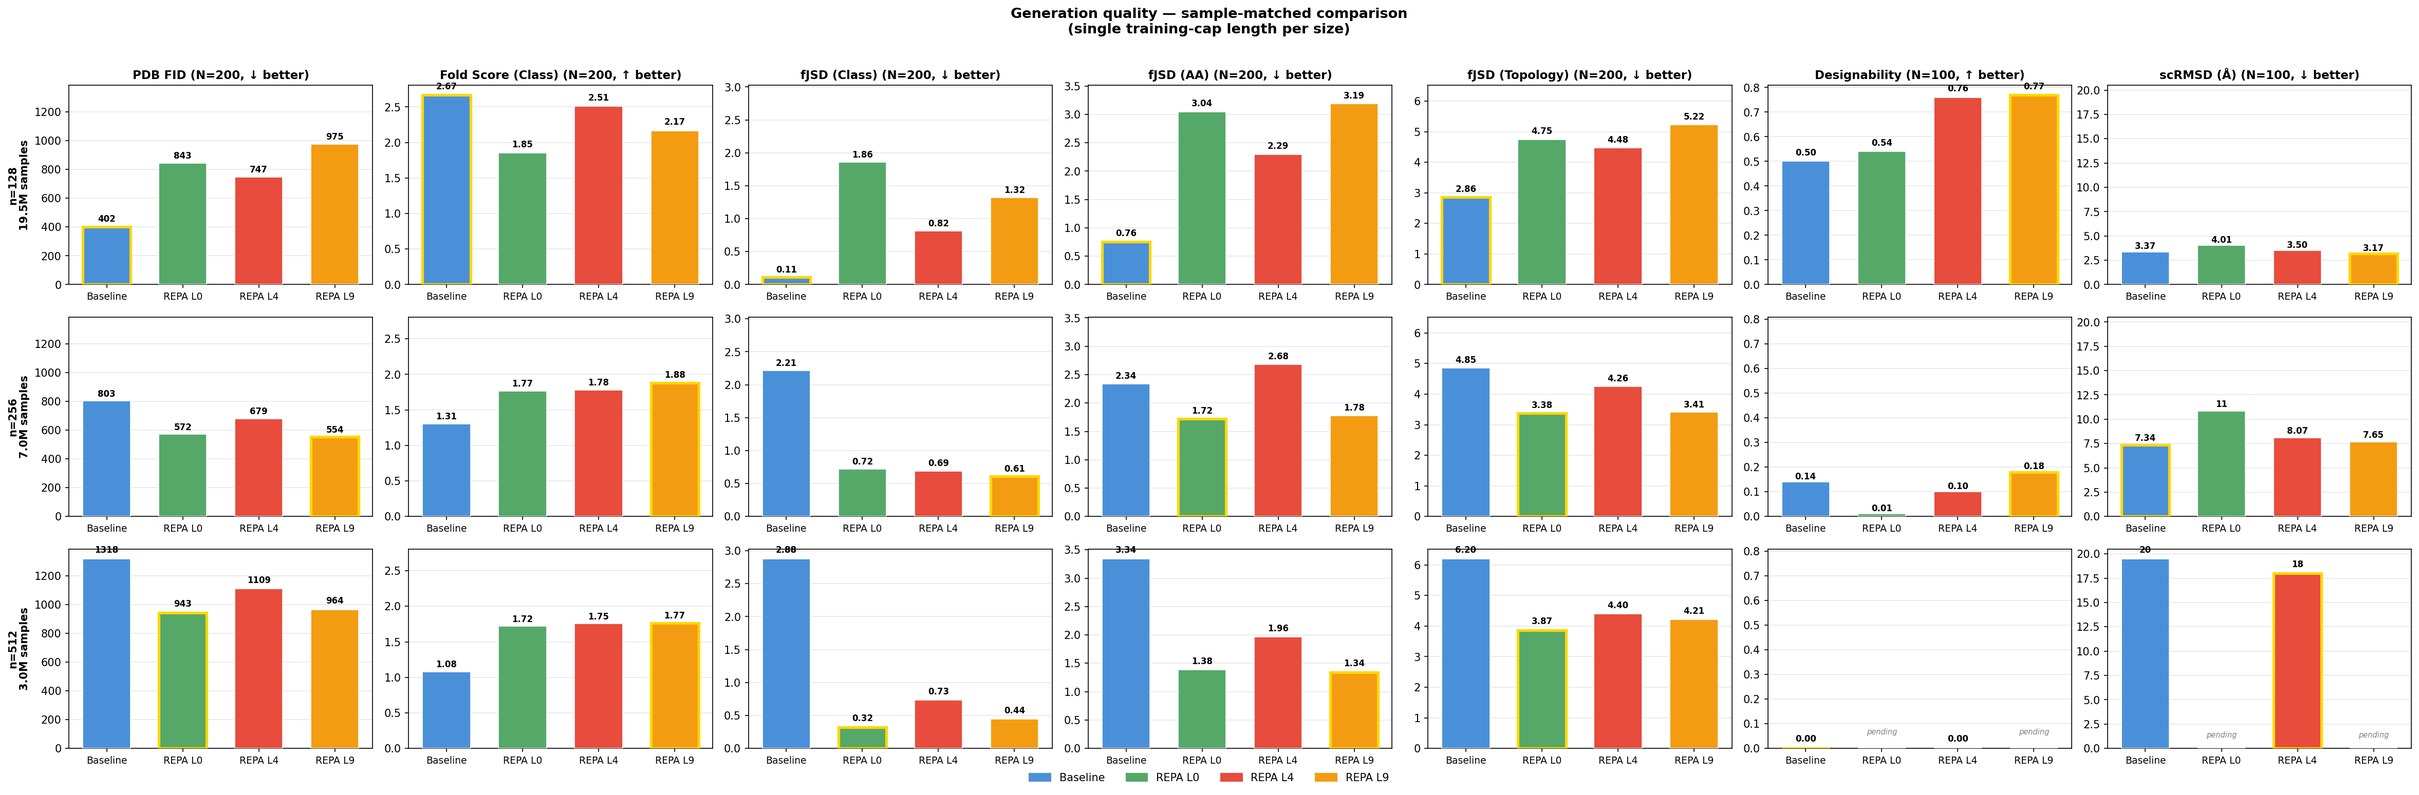
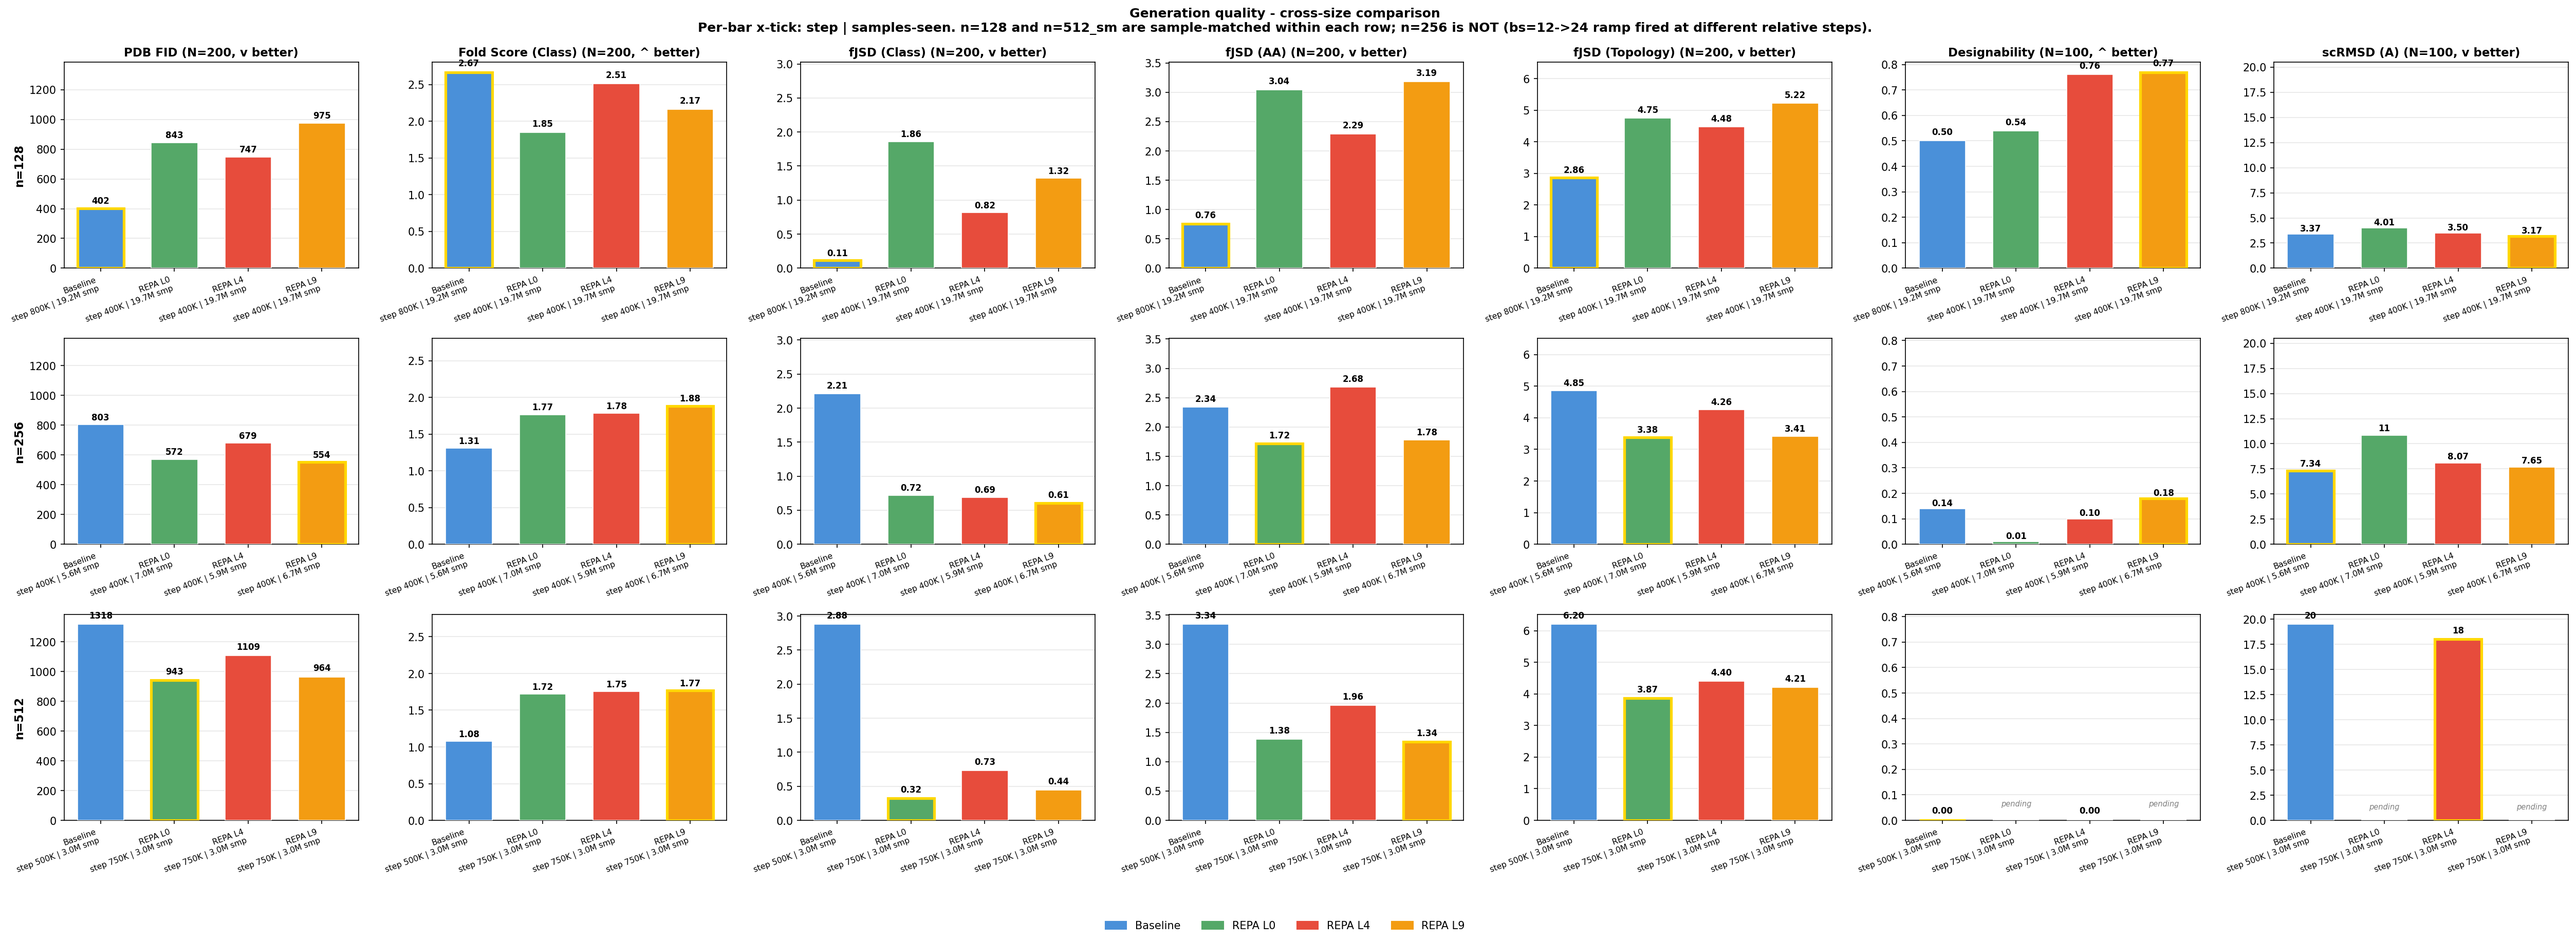
evaluation/proteina: rename n128_bs80_sweep -> n128_L4_bs80, relocate FID comparison figures, propagate per-run x-tick
Three organizational/UX threads bundled because they touch overlapping files
in the bar-plot scripts:

- Rename n128_bs80_sweep -> n128_L4_bs80 across both gen and representation
  suites (sweep_config keys, results/ dirs, figures/ dirs, plot scripts) to
  make the layer-4-only scope explicit vs the n128 L0/L4/L9 layer ablation.
  Both sweep_config.yaml entries carry a "Renamed 2026-05-06" comment with
  the rationale.

- Relocate FID comparison PNGs from figures/n512_convergence/ -> figures/
  n512_full_eval/ in plot_fid_comparison.py. The data source (results/pdb/
  fid/inference_fid_60m_*.csv) is the legacy 6,125-PDB eval pipeline, not
  the n512_convergence sweep, so the directory name was misleading.
  figures/n512_convergence/ now holds only convergence-curve plots.

- Propagate the n128_sweep-style "step <K>K | <samples>M smp" two-line
  x-tick label across plot_fid_comparison.py, plot_n128_L4_bs80.py, and
  plot_sample_matched.py. n=256 samples are derived per-run from the EMA
  ckpt epoch counter (epochs differ at step 400K because the bs=12->24
  ramp fired at different relative steps); plot_sample_matched holds a
  SAMPLES_M lookup keyed by (size, run_label) since the bs schedule is
  not uniform across the size tiers.

Regenerated PNGs are included.

Changed region(s): [[0.0, 0.0, 0.9992, 0.9916], [0.843, 0.4028, 0.8743, 0.4338]]

diff --git a/evaluation/proteina/generation/scripts/plot_sample_matched.py b/evaluation/proteina/generation/scripts/plot_sample_matched.py
@@ -23,9 +23,33 @@ FIGURES_DIR = HERE.parent / "figures"
 # -- Data ----------------------------------------------------------------------
 
 SIZES = {
-    "n128": {"label": "n=128", "samples": "19.5M samples", "dir": "n128"},
-    "n256": {"label": "n=256", "samples": "7.0M samples", "dir": "n256"},
-    "n512_sm": {"label": "n=512", "samples": "3.0M samples", "dir": "n512_sm"},
+    "n128": {"label": "n=128", "dir": "n128"},
+    "n256": {"label": "n=256", "dir": "n256"},
+    "n512_sm": {"label": "n=512", "dir": "n512_sm"},
+}
+
+# Per-cell samples_M lookup (used for the per-bar x-tick). Steps are read from
+# the JSONL at runtime; samples_M is hard-coded because it depends on the
+# run-specific bs schedule (not derivable from step alone):
+#   n=128: baseline bs=24 fixed; repa_l* bs=24->80@220K
+#          baseline 800K -> 19.20M, repa_l* 400K -> 19.68M
+#   n=256: bs=12->24 ramp fired at different relative steps per run, so
+#          samples = epoch_at_step_400K * 267,789 (PDB train n<=256 subset).
+#          epochs from CSV: baseline 21, l4 22, l9 25, l0 26
+#   n=512: baseline bs=6 fixed -> 500K = 3.00M; repa_l* bs=4 fixed -> 750K = 3.00M
+SAMPLES_M = {
+    ("n128", "Baseline"): 19.2,
+    ("n128", "REPA L0"): 19.7,
+    ("n128", "REPA L4"): 19.7,
+    ("n128", "REPA L9"): 19.7,
+    ("n256", "Baseline"): 5.6,
+    ("n256", "REPA L0"): 7.0,
+    ("n256", "REPA L4"): 5.9,
+    ("n256", "REPA L9"): 6.7,
+    ("n512_sm", "Baseline"): 3.0,
+    ("n512_sm", "REPA L0"): 3.0,
+    ("n512_sm", "REPA L4"): 3.0,
+    ("n512_sm", "REPA L9"): 3.0,
 }
 
 # Canonical display order and style per run
@@ -100,12 +124,15 @@ def _load_per_run_csv_metrics(config_name: str, run_key: str, step) -> dict:
     return out
 
 
-def load_results() -> dict:
-    """Return {size_key: {run_label: {metric: value}}}."""
+def load_results() -> tuple[dict, dict]:
+    """Return ({size_key: {run_label: {metric: value}}},
+    {size_key: {run_label: step}})."""
     data = {}
+    steps_by_size: dict[str, dict[str, int]] = {}
     for size_key, cfg in SIZES.items():
         jsonl = RESULTS_ROOT / cfg["dir"] / "sweep_results.jsonl"
         size_data: dict[str, dict] = {}
+        size_steps: dict[str, int] = {}
         if jsonl.exists():
             with open(jsonl) as f:
                 for line in f:
@@ -130,11 +157,21 @@ def load_results() -> dict:
                             if m in csv_metrics:
                                 metrics[m] = csv_metrics[m]
                     size_data[label] = metrics
+                    size_steps[label] = int(r["step"])
         data[size_key] = size_data
-    return data
+        steps_by_size[size_key] = size_steps
+    return data, steps_by_size
 
 
-def plot(data: dict) -> None:
+def _xtick_label(size_key: str, run_label: str, step: int | None) -> str:
+    """Two-line tick: '<run>\nstep <K>K | <samples>M smp'."""
+    samples = SAMPLES_M.get((size_key, run_label))
+    if step is None or samples is None:
+        return run_label
+    return f"{run_label}\nstep {step // 1000}K | {samples:.1f}M smp"
+
+
+def plot(data: dict, steps_by_size: dict) -> None:
     FIGURES_DIR.mkdir(parents=True, exist_ok=True)
 
     n_metrics = len(METRICS)
@@ -143,7 +180,7 @@ def plot(data: dict) -> None:
     fig, axes = plt.subplots(
         n_sizes,
         n_metrics,
-        figsize=(4.5 * n_metrics, 3.3 * n_sizes),
+        figsize=(4.8 * n_metrics, 4.0 * n_sizes),
         sharey="col",
     )
 
@@ -152,6 +189,7 @@ def plot(data: dict) -> None:
 
     for row, (size_key, size_cfg) in enumerate(SIZES.items()):
         size_data = data[size_key]
+        size_steps = steps_by_size.get(size_key, {})
 
         for col, (metric_key, (metric_label, lower_better, n_note)) in enumerate(
             METRICS.items()
@@ -224,7 +262,12 @@ def plot(data: dict) -> None:
                 bars[best_i].set_linewidth(2.5)
 
             ax.set_xticks(x_positions)
-            ax.set_xticklabels(RUN_ORDER, fontsize=9)
+            ax.set_xticklabels(
+                [_xtick_label(size_key, r, size_steps.get(r)) for r in RUN_ORDER],
+                fontsize=7.5,
+                rotation=20,
+                ha="right",
+            )
             ax.grid(axis="y", alpha=0.3, zorder=0)
             ax.set_axisbelow(True)
 
@@ -238,8 +281,8 @@ def plot(data: dict) -> None:
 
             if col == 0:
                 ax.set_ylabel(
-                    f"{size_cfg['label']}\n{size_cfg['samples']}",
-                    fontsize=10,
+                    size_cfg["label"],
+                    fontsize=11,
                     fontweight="bold",
                 )
 
@@ -254,18 +297,20 @@ def plot(data: dict) -> None:
         bbox_to_anchor=(0.5, -0.02),
     )
 
+    plt.tight_layout(rect=[0, 0.04, 1, 0.96])
     fig.suptitle(
-        "Generation quality - sample-matched comparison\n(single training-cap length per size)",
-        fontsize=13,
+        "Generation quality - cross-size comparison\n"
+        "Per-bar x-tick: step | samples-seen. n=128 and n=512_sm are sample-matched within each row; "
+        "n=256 is NOT (bs=12->24 ramp fired at different relative steps).",
+        fontsize=12,
         fontweight="bold",
-        y=1.01,
+        y=0.99,
     )
-    plt.tight_layout()
     out = FIGURES_DIR / "fig_grid_sample_matched.png"
     fig.savefig(out, dpi=150, bbox_inches="tight")
     print(f"Saved {out}")
 
 
 if __name__ == "__main__":
-    data = load_results()
-    plot(data)
+    data, steps_by_size = load_results()
+    plot(data, steps_by_size)

diff --git a/evaluation/proteina/generation/scripts/plot_n128_L4_bs80.py b/evaluation/proteina/generation/scripts/plot_n128_L4_bs80.py
@@ -1,6 +1,6 @@
-"""Bar chart comparison of generation metrics for the n=128 bs=80 sweep.
+"""Bar chart comparison of generation metrics for the n=128 L4 bs=80 sweep.
 
-Reads from results/n128_bs80_sweep/sweep_results.jsonl and produces a
+Reads from results/n128_L4_bs80/sweep_results.jsonl and produces a
 2 x len(METRICS) grid:
     rows  = step bucket (mid ~8M / end ~16M samples)
     cols  = metric (PDB FID, fS, fJSD, designability, scRMSD)
@@ -8,8 +8,12 @@ Reads from results/n128_bs80_sweep/sweep_results.jsonl and produces a
 
 Mirrors plot_sample_matched.py but groups by step instead of model size.
 
+Renamed 2026-05-06 from plot_n128_bs80_sweep.py -> plot_n128_L4_bs80.py to
+make the layer-4-only scope explicit (cf. plot_n128_sweep.py, which is the
+L0/L4/L9 layer ablation).
+
 Usage:
-    python evaluation/proteina/generation/scripts/plot_n128_bs80_sweep.py
+    python evaluation/proteina/generation/scripts/plot_n128_L4_bs80.py
 """
 
 from __future__ import annotations
@@ -22,8 +26,8 @@ import matplotlib.pyplot as plt
 import numpy as np
 
 HERE = Path(__file__).resolve().parent
-RESULTS_DIR = HERE.parent / "results" / "n128_bs80_sweep"
-FIGURES_DIR = HERE.parent / "figures"
+RESULTS_DIR = HERE.parent / "results" / "n128_L4_bs80"
+FIGURES_DIR = HERE.parent / "figures" / "n128_L4_bs80"
 
 # 4 runs in canonical display order; colour scheme matches plot_sample_matched.py
 RUNS = {
@@ -74,20 +78,34 @@ def load_rows() -> list[dict]:
     return rows
 
 
-def organize(rows: list[dict]) -> dict:
-    """Return {bucket: {run_label: {metric: value}}}."""
+def organize(rows: list[dict]) -> tuple[dict, dict]:
+    """Return ({bucket: {run_label: {metric: value}}},
+    {bucket: {run_label: step}})."""
     out: dict[str, dict[str, dict]] = {"mid": {}, "end": {}}
+    steps: dict[str, dict[str, int]] = {"mid": {}, "end": {}}
     for r in rows:
         bucket = r["_step_bucket"]
         label = KEY_TO_LABEL[r["run"]]
         out[bucket][label] = {m: r.get(m) for m in METRICS}
-    return out
+        steps[bucket][label] = int(r["step"])
+    return out, steps
 
 
-def plot(data: dict) -> None:
+def _xtick_label(label: str, step: int | None) -> str:
+    """Two-line tick: '<run>\nstep <K>K | <samples>M smp'.
+
+    All n128_L4_bs80 runs train at bs=80 throughout, so samples = step * 80.
+    """
+    if step is None:
+        return label
+    samples_M = step * 80 / 1e6
+    return f"{label}\nstep {step // 1000}K | {samples_M:.1f}M smp"
+
+
+def plot(data: dict, steps: dict) -> None:
     FIGURES_DIR.mkdir(parents=True, exist_ok=True)
     n_metrics = len(METRICS)
-    fig, axes = plt.subplots(2, n_metrics, figsize=(3.7 * n_metrics, 6.6), sharey="col")
+    fig, axes = plt.subplots(2, n_metrics, figsize=(4.2 * n_metrics, 7.8), sharey="col")
     x = np.arange(len(RUN_LABELS))
 
     for row, bucket in enumerate(["mid", "end"]):
@@ -154,7 +172,12 @@ def plot(data: dict) -> None:
                 bars[best_i].set_linewidth(2.5)
 
             ax.set_xticks(x)
-            ax.set_xticklabels(RUN_LABELS, fontsize=8, rotation=15, ha="right")
+            ax.set_xticklabels(
+                [_xtick_label(lbl, steps[bucket].get(lbl)) for lbl in RUN_LABELS],
+                fontsize=7.5,
+                rotation=20,
+                ha="right",
+            )
             ax.grid(axis="y", alpha=0.3, zorder=0)
             ax.set_axisbelow(True)
 
@@ -179,18 +202,18 @@ def plot(data: dict) -> None:
     )
 
     fig.suptitle(
-        "n=128 bs=80 sweep - generation metrics at sample-matched checkpoints",
+        "n=128 L4 bs=80 sweep - generation metrics at sample-matched checkpoints",
         fontsize=13,
         fontweight="bold",
         y=1.01,
     )
     plt.tight_layout()
-    out = FIGURES_DIR / "n128_bs80_sweep.png"
+    out = FIGURES_DIR / "n128_L4_bs80.png"
     fig.savefig(out, dpi=150, bbox_inches="tight")
     print(f"Saved {out}")
 
 
 if __name__ == "__main__":
     rows = load_rows()
-    data = organize(rows)
-    plot(data)
+    data, steps = organize(rows)
+    plot(data, steps)

diff --git a/evaluation/proteina/generation/scripts/plot_fid_comparison.py b/evaluation/proteina/generation/scripts/plot_fid_comparison.py
@@ -16,9 +16,7 @@ import pandas as pd
 
 # Layout: scripts/ sits next to results/ and figures/ under generation/.
 RESULTS_DIR = os.path.join(os.path.dirname(__file__), "..", "results", "pdb", "fid")
-OUTPUT_DIR = os.path.join(
-    os.path.dirname(__file__), "..", "figures", "n512_convergence"
-)
+OUTPUT_DIR = os.path.join(os.path.dirname(__file__), "..", "figures", "n512_full_eval")
 os.makedirs(OUTPUT_DIR, exist_ok=True)
 
 # Which metrics exist and whether lower is better
@@ -114,13 +112,13 @@ def load_early_results():
 
 
 def _step_labels(results):
-    """Labels with samples seen, e.g. 'Baseline\n4.5M samples'."""
+    """Two-line tick: '<run>\nstep <K>K | <samples>M smp'."""
     labels = []
     for name, _, step, _ in results:
         if step is not None:
             bs = BATCH_SIZES.get(name, 1)
             samples = step * bs
-            labels.append(f"{name}\n{samples / 1e6:.1f}M samples")
+            labels.append(f"{name}\nstep {step // 1000}K | {samples / 1e6:.1f}M smp")
         else:
             labels.append(name)
     return labels
@@ -194,13 +192,16 @@ def plot_fid_bars(results_late, results_early):
         step_labels = []
         for label in run_labels:
             info = grouped[label]
-            parts = [label]
             if "late" in info and info["late"][0]:
+                step = info["late"][0]
                 bs = BATCH_SIZES.get(label, 1)
-                samples = info["late"][0] * bs
-                parts.append(f"{samples / 1e6:.1f}M samples")
-            step_labels.append("\n".join(parts))
-        ax.set_xticklabels(step_labels)
+                samples = step * bs
+                step_labels.append(
+                    f"{label}\nstep {step // 1000}K | {samples / 1e6:.1f}M smp"
+                )
+            else:
+                step_labels.append(label)
+        ax.set_xticklabels(step_labels, fontsize=8.5, rotation=15, ha="right")
 
         # Annotate late bars
         for bar, v in zip(bars_l, late_vals):
@@ -321,7 +322,7 @@ def plot_fjsd_bars(results_late, results_early):
         ax.set_ylabel("Fold JSD (lower = better)")
         ax.set_title(f"Fold JSD - {level_name}")
         ax.set_xticks(x)
-        ax.set_xticklabels(tick_labels, rotation=20, ha="right")
+        ax.set_xticklabels(tick_labels, fontsize=8, rotation=20, ha="right")
         ax.legend(fontsize=8)
         ax.set_ylim(0, max(max(pdb_vals), max(afdb_vals)) * 1.3)
 
@@ -388,7 +389,9 @@ def plot_fold_score_bars(results_late, results_early):
         ax.set_title(METRIC_INFO[key][0])
         ax.set_ylim(0, max(all_vals) * 1.25)
         ax.set_xticks(x)
-        ax.set_xticklabels(_step_labels(results_late))
+        ax.set_xticklabels(
+            _step_labels(results_late), fontsize=8, rotation=15, ha="right"
+        )
 
         for bar, v in zip(bars_l, late_vals):
             ax.text(

diff --git a/evaluation/proteina/representation/scripts/plot_per_n_L4_bs80.py b/evaluation/proteina/representation/scripts/plot_per_n_L4_bs80.py
@@ -1,6 +1,6 @@
-"""Per-layer probe plots for the n=128 bs=80 sweep.
+"""Per-layer probe plots for the n=128 L4 bs=80 sweep.
 
-Reads results/n128_bs80_sweep_val/sweep_results.csv and produces a 2 x 3 grid:
+Reads results/n128_L4_bs80_val/sweep_results.csv and produces a 2 x 3 grid:
     rows = step bucket (mid ~8M / end ~16M samples)
     cols = probe timestep t in {0.5, 0.75, 1.0}
     x    = transformer layer (0..9 for our 10-layer 60M model)
@@ -14,8 +14,12 @@ A second figure with the same layout but y = cath_acc is also written.
 Mirrors plot_per_n.py but groups by step bucket instead of model size and
 restricts the family set to the four bs=80 students.
 
+Renamed 2026-05-06 from plot_per_n_bs80_sweep.py -> plot_per_n_L4_bs80.py
+to make the layer-4-only scope explicit (cf. plot_per_n.py, which covers the
+L0/L4/L9 layer ablation across n=128/256/512).
+
 Usage:
-    python evaluation/proteina/representation/scripts/plot_per_n_bs80_sweep.py
+    python evaluation/proteina/representation/scripts/plot_per_n_L4_bs80.py
 """
 
 from __future__ import annotations
@@ -26,7 +30,7 @@ import matplotlib.pyplot as plt
 import pandas as pd
 
 HERE = Path(__file__).resolve().parent
-RESULTS = HERE.parent / "results" / "n128_bs80_sweep_val"
+RESULTS = HERE.parent / "results" / "n128_L4_bs80_val"
 FIG_DIR = HERE.parent / "figures"
 
 # Per-checkpoint colour, matches the gen-side bs80 plot for consistency
@@ -168,6 +172,6 @@ def _plot_grid(df: pd.DataFrame, metric: str, ylabel: str, out_name: str) -> Non
 if __name__ == "__main__":
     df = _load()
     _plot_grid(
-        df, "p_at_L_5_linear", "P@L/5 (linear)", "n128_bs80_sweep_per_layer_PaL5.png"
+        df, "p_at_L_5_linear", "P@L/5 (linear)", "n128_L4_bs80_per_layer_PaL5.png"
     )
-    _plot_grid(df, "cath_acc", "CATH accuracy", "n128_bs80_sweep_per_layer_cath.png")
+    _plot_grid(df, "cath_acc", "CATH accuracy", "n128_L4_bs80_per_layer_cath.png")
